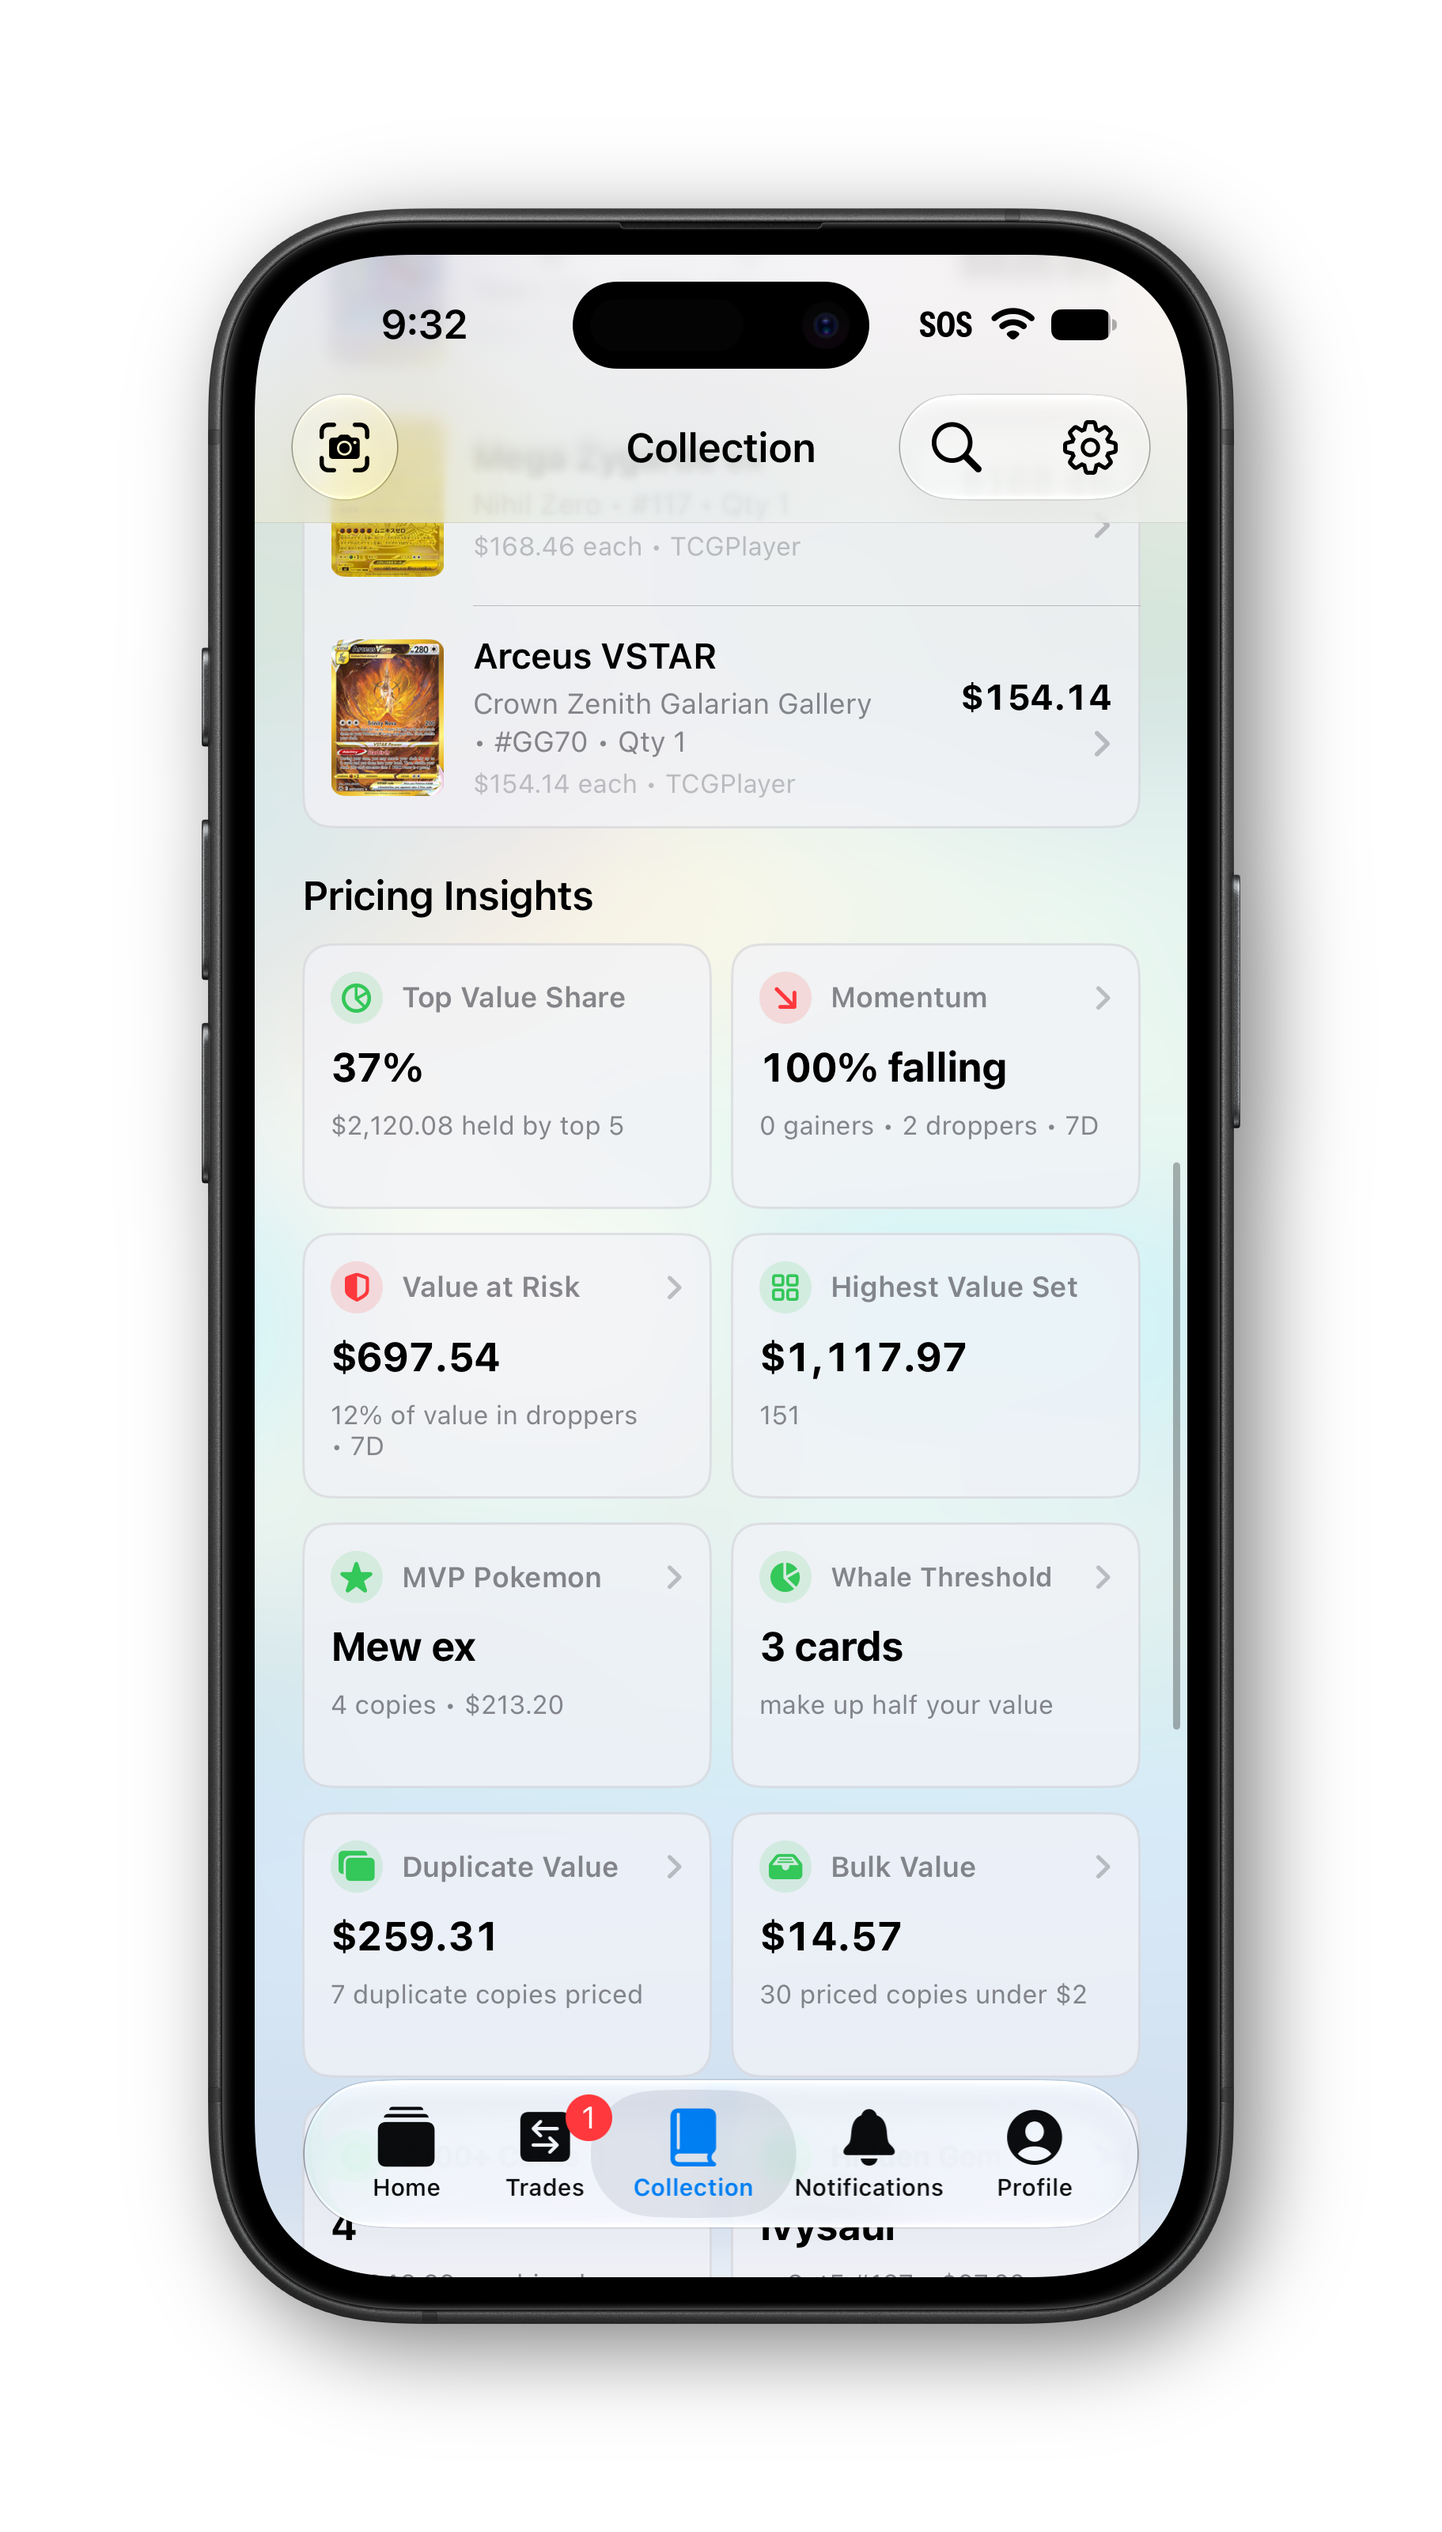
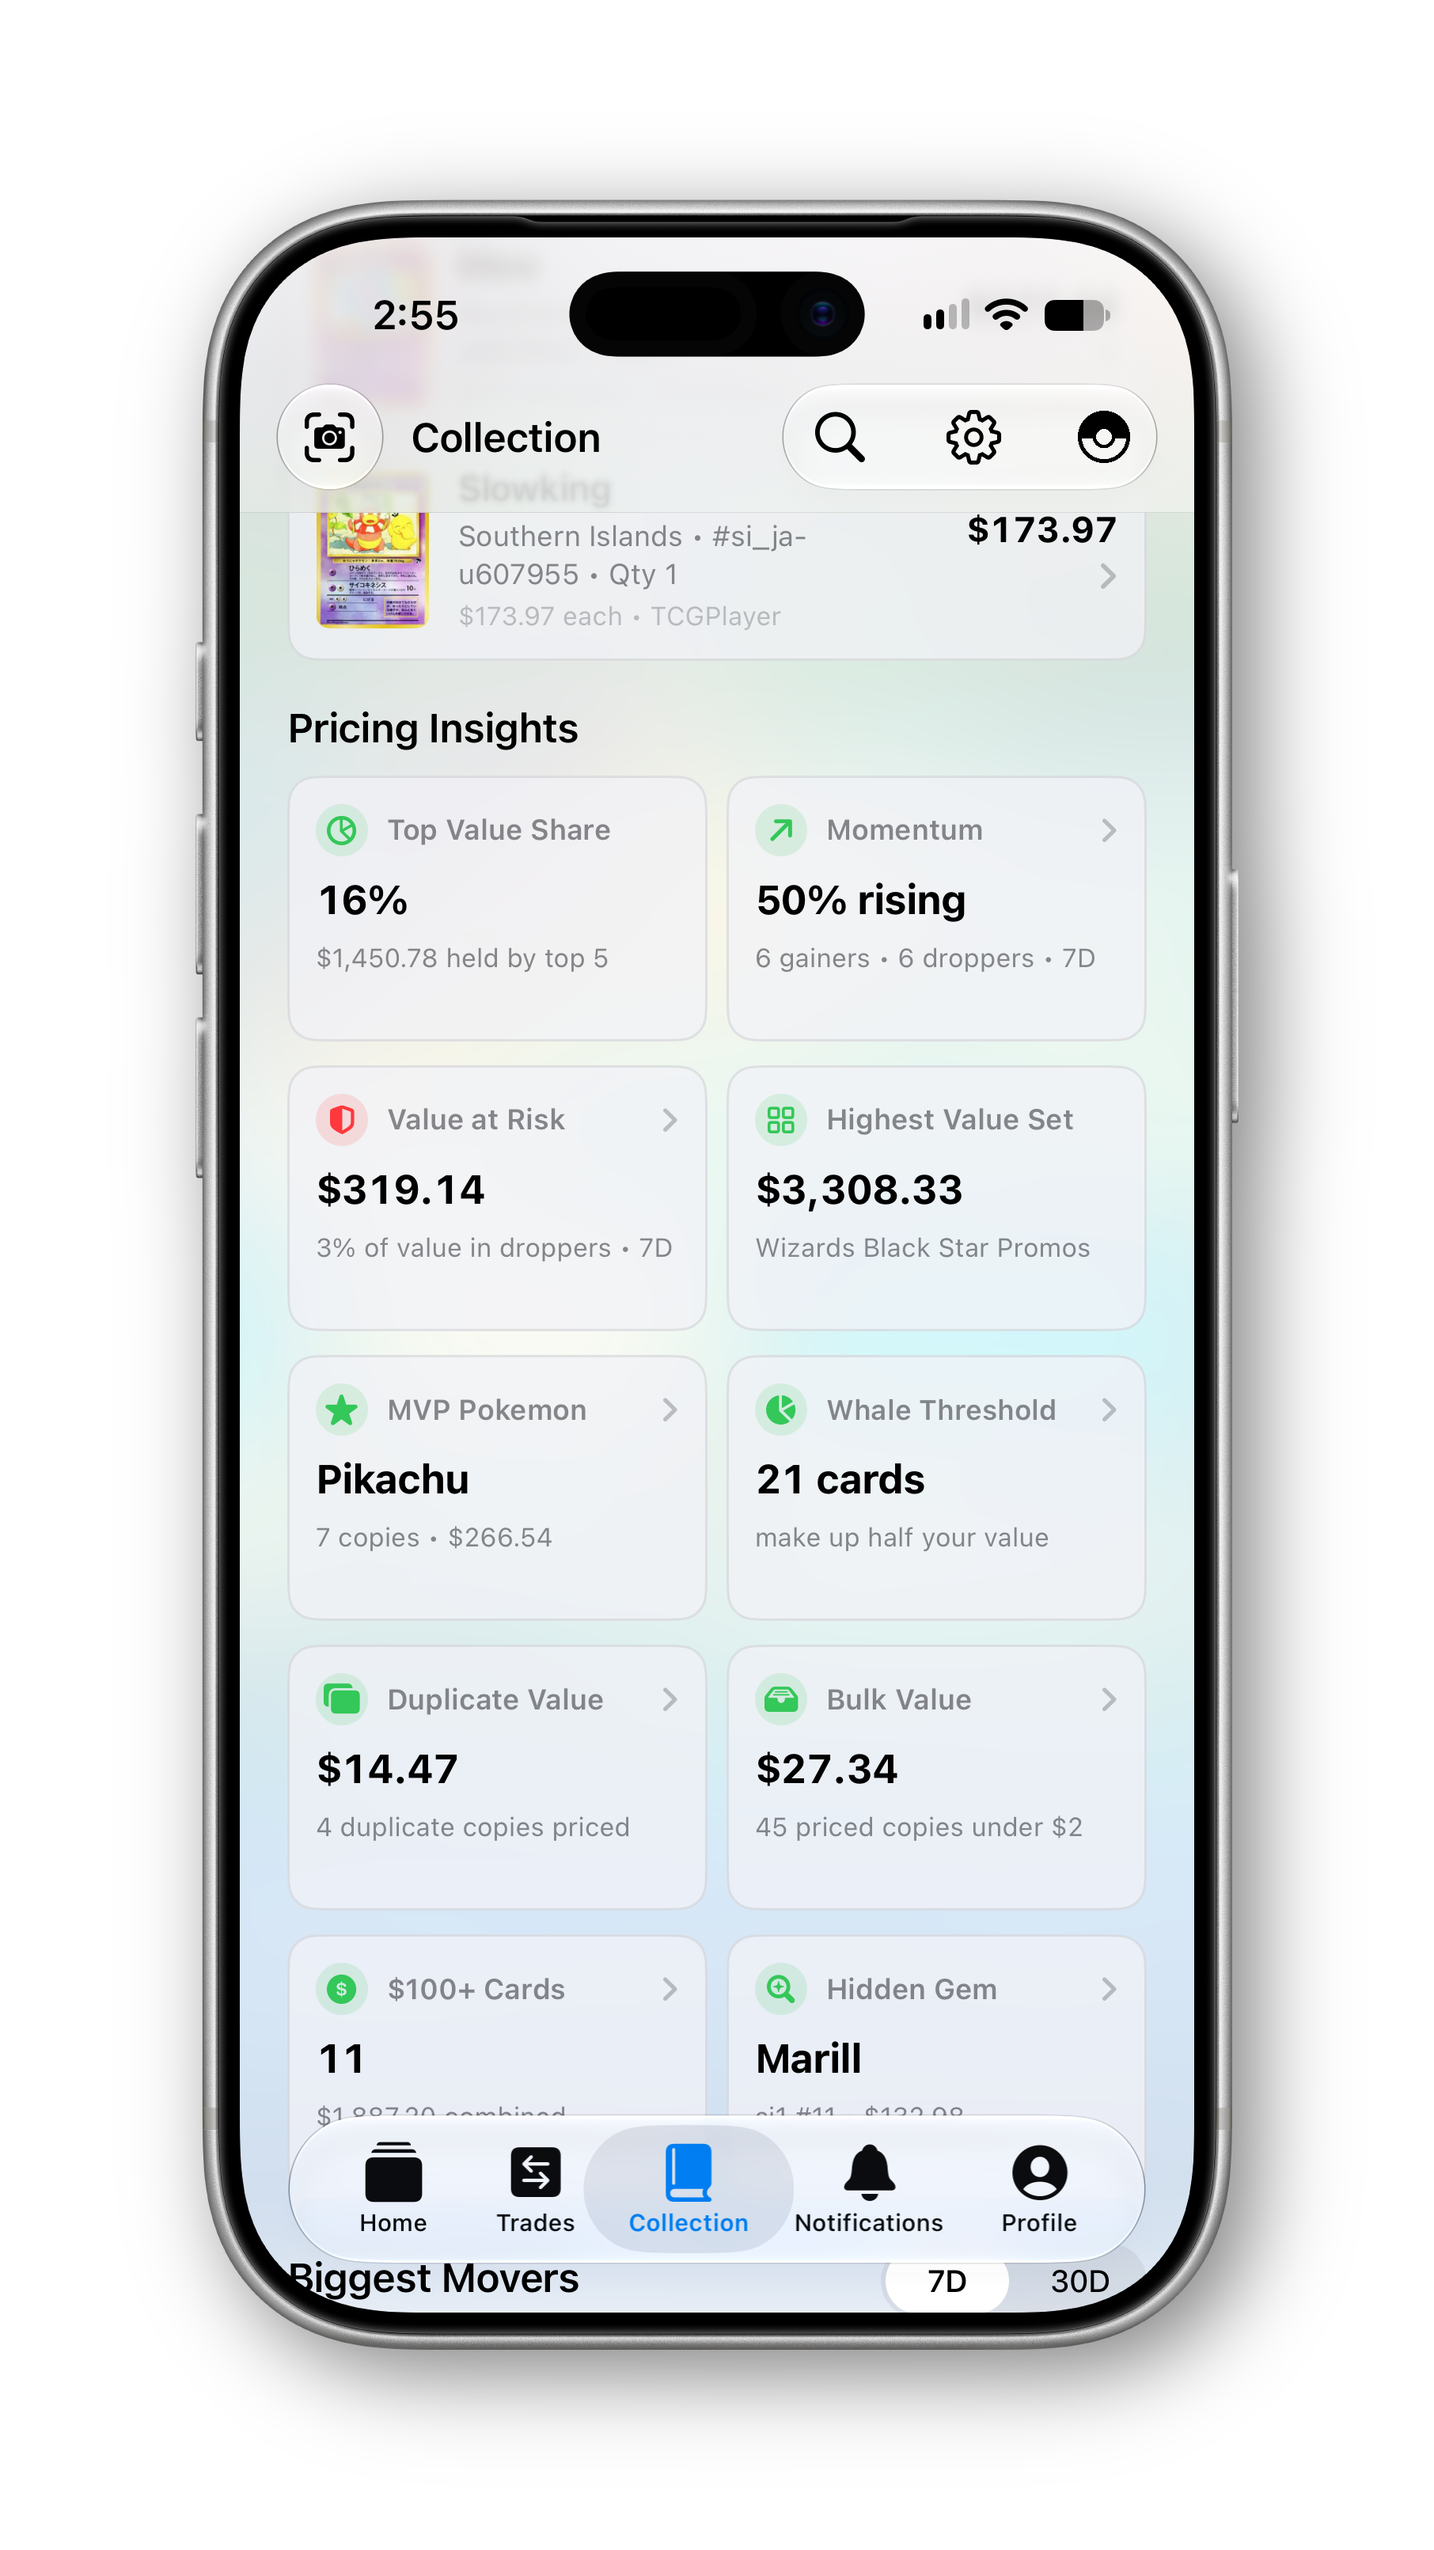
Refresh homepage welcome, pricing insights, and trade hub screenshots (#18)

Changed region(s): [[0.1236, 0.0625, 0.8653, 0.9375], [0.6799, 0.25, 0.7726, 0.2812]]

diff --git a/index.html b/index.html
@@ -99,7 +99,7 @@
     <div class="hero-art" aria-label="A closer look at Route 25">
       <img class="hero-phone phone-binder" src="/assets/screenshots/home/binder.webp" width="760" height="1468" alt="A custom Pokémon card binder in Route 25" />
       <img class="hero-phone phone-feed" src="/assets/screenshots/home/shared-pull.webp" width="760" height="1468" alt="The Route 25 home feed with a collector sharing an Articuno and Pikachu pull" fetchpriority="high" />
-      <div class="hero-phone phone-welcome phone-cutout"><img src="/assets/screenshots/home/welcome.png" width="1823" height="3200" alt="The colorful Route 25 welcome screen on iPhone" fetchpriority="high" /></div>
+      <div class="hero-phone phone-welcome phone-cutout"><img src="/assets/screenshots/home/welcome.png?v=20261111" width="1812" height="3222" alt="The colorful Route 25 welcome screen on iPhone" fetchpriority="high" /></div>
       <img class="hero-phone phone-pikachu" src="/assets/screenshots/home/pikachu.webp" width="760" height="1468" alt="A sparkling Japanese Pikachu card in Route 25" fetchpriority="high" />
       <img class="hero-phone phone-trainer" src="/assets/screenshots/home/trainer.webp" width="760" height="1468" alt="Trainer badges and level progress in Route 25" />
     </div>
@@ -122,8 +122,8 @@
     <button class="tour-toggle" type="button" data-tour-toggle hidden aria-label="Pause feature tour" title="Pause feature tour"><span data-tour-icon aria-hidden="true">Ⅱ</span></button>
     <div class="feature-panel" id="panel-community" role="tabpanel" aria-labelledby="tab-community" tabindex="0"><div class="feature-copy"><p class="eyebrow">01 / The community</p><h3>Pulled something good?<br />Let’s see it.</h3><p>Post your pulls, see what other collectors are opening, and keep up with the latest trends in the Pokémon TCG.</p><div class="feature-detail">Share pulls · Follow Trainers · Join the conversation</div><a class="text-link" href="#download">Find it in Route 25 <span aria-hidden="true">↗</span></a></div><div class="feature-art feature-art-pair"><img class="pair-back" src="/assets/screenshots/home/community.webp" width="760" height="1468" alt="A Trainer sharing a Pikachu and Mimikyu card with the Route 25 community" loading="lazy" /><img class="pair-front" src="/assets/screenshots/home/shared-pull.webp" width="760" height="1468" alt="A collector sharing Articuno and Pikachu in a two-card pull" loading="lazy" /></div></div>
     <div class="feature-panel" id="panel-binder" role="tabpanel" aria-labelledby="tab-binder" tabindex="0" hidden><div class="feature-copy"><p class="eyebrow">02 / Your collection</p><h3>Yes, an entire<br />binder of Mew.</h3><p>Pick a Pokémon, a set, or any theme you like. Make a custom binder, flip through the pages, and see which cards you’re still missing.</p><div class="feature-detail">Custom binders · Set progress · Wishlists</div><a class="text-link" href="#download">Find it in Route 25 <span aria-hidden="true">↗</span></a></div><div class="feature-art feature-art-pair"><img class="pair-back" src="/assets/screenshots/home/binder.webp" width="760" height="1468" alt="A custom Mew binder showing cards, completion, and binder value" loading="lazy" /><img class="pair-front" src="/assets/screenshots/home/binder-pages.webp" width="760" height="1468" alt="Turning a page in a custom Mew binder" loading="lazy" /></div></div>
-    <div class="feature-panel" id="panel-trade" role="tabpanel" aria-labelledby="tab-trade" tabindex="0" hidden><div class="feature-copy"><p class="eyebrow">03 / Trainer-to-Trainer trades</p><h3>Got a spare?<br />Make a trade.</h3><p>List cards you’re ready to trade, review offers, and compare cards of similar value from your collection.</p><div class="feature-detail">Trade listings · Offers · Value comparisons</div><a class="text-link" href="#download">Find it in Route 25 <span aria-hidden="true">↗</span></a></div><div class="feature-art feature-art-pair"><img class="pair-back" src="/assets/screenshots/home/trade.webp" width="760" height="1468" alt="A Bombirdier trade listing with incoming offers and similar-value cards" loading="lazy" /><div class="pair-front phone-cutout"><img src="/assets/screenshots/home/trade-hub.png" width="1823" height="3200" alt="Trade Hub showing an active Poliwhirl trade and shipment progress" loading="lazy" /></div></div></div>
-    <div class="feature-panel" id="panel-value" role="tabpanel" aria-labelledby="tab-value" tabindex="0" hidden><div class="feature-copy"><p class="eyebrow">04 / Collection insights</p><h3>See what your<br />collection is worth.</h3><p>Check estimated market values, follow price changes, and see which cards top your collection.</p><div class="feature-detail">Collection value · Price trends · Top cards</div><a class="text-link" href="#download">Find it in Route 25 <span aria-hidden="true">↗</span></a></div><div class="feature-art feature-art-pair"><img class="pair-back" src="/assets/screenshots/home/value.webp" width="760" height="1468" alt="Collection value, a 14-day value trend, and the top cards in Route 25" loading="lazy" /><div class="pair-front phone-cutout"><img src="/assets/screenshots/home/pricing-insights.png" width="1823" height="3200" alt="Pricing Insights showing value distribution, momentum, and collection statistics" loading="lazy" /></div></div></div>
+    <div class="feature-panel" id="panel-trade" role="tabpanel" aria-labelledby="tab-trade" tabindex="0" hidden><div class="feature-copy"><p class="eyebrow">03 / Trainer-to-Trainer trades</p><h3>Got a spare?<br />Make a trade.</h3><p>List cards you’re ready to trade, review offers, and compare cards of similar value from your collection.</p><div class="feature-detail">Trade listings · Offers · Value comparisons</div><a class="text-link" href="#download">Find it in Route 25 <span aria-hidden="true">↗</span></a></div><div class="feature-art feature-art-pair"><img class="pair-back" src="/assets/screenshots/home/trade.webp" width="760" height="1468" alt="A Bombirdier trade listing with incoming offers and similar-value cards" loading="lazy" /><div class="pair-front phone-cutout"><img src="/assets/screenshots/home/trade-hub.png?v=20261111" width="1812" height="3222" alt="Trade Hub showing a Bombirdier for Pikachu trade with Chuck at the exchange step" loading="lazy" /></div></div></div>
+    <div class="feature-panel" id="panel-value" role="tabpanel" aria-labelledby="tab-value" tabindex="0" hidden><div class="feature-copy"><p class="eyebrow">04 / Collection insights</p><h3>See what your<br />collection is worth.</h3><p>Check estimated market values, follow price changes, and see which cards top your collection.</p><div class="feature-detail">Collection value · Price trends · Top cards</div><a class="text-link" href="#download">Find it in Route 25 <span aria-hidden="true">↗</span></a></div><div class="feature-art feature-art-pair"><img class="pair-back" src="/assets/screenshots/home/value.webp" width="760" height="1468" alt="Collection value, a 14-day value trend, and the top cards in Route 25" loading="lazy" /><div class="pair-front phone-cutout"><img src="/assets/screenshots/home/pricing-insights.png?v=20261111" width="1812" height="3222" alt="Pricing Insights showing value distribution, momentum, and collection statistics" loading="lazy" /></div></div></div>
     </div>
     </div>
   </section>
